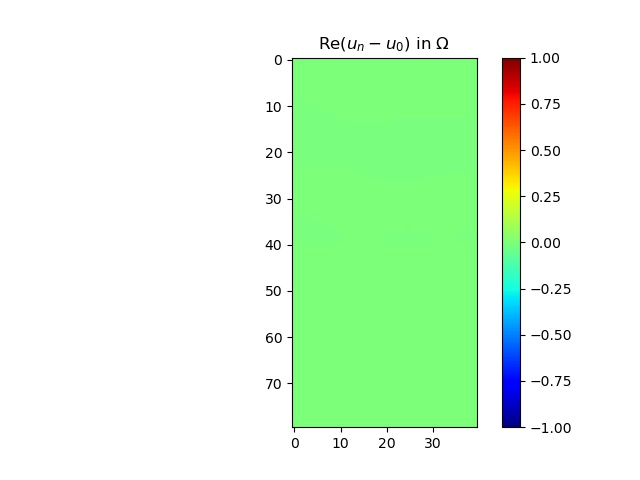
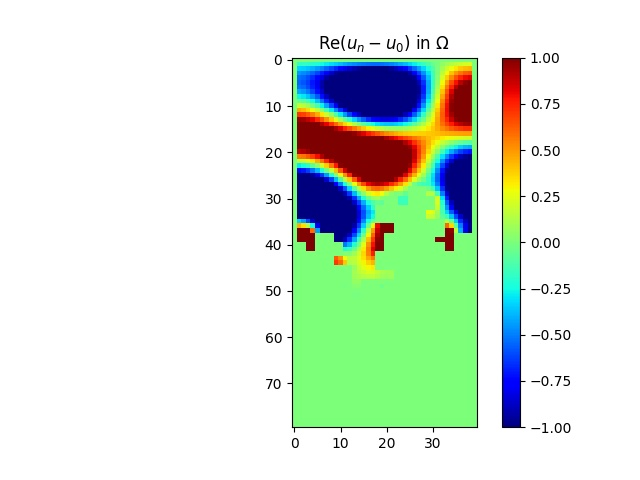
résultats concluants

diff --git a/demo_control_polycopie.py b/demo_control_polycopie.py
@@ -25,10 +25,10 @@ import alpha_compute
 def your_optimization_procedure(domain_omega, spacestep, wavenumber, f, f_dir, f_neu, f_rob,
                                 beta_pde, alpha_pde, alpha_dir, beta_neu, beta_rob, alpha_rob,
                                 Alpha, mu, chi, V_obj, mu1, V_0):
-
+    eps3 = 0.1
     eps1 = 1
     eps2 = 0.03
-    eps0 = 0.00001
+    eps0 = 0.0000001
     """This function return the optimized density.
 
     Parameter:
@@ -104,14 +104,14 @@ def your_optimization_procedure(domain_omega, spacestep, wavenumber, f, f_dir, f
             ene = your_compute_objective_function(
                 domain_omega, u, spacestep, mu1, V_0)
 
-            postprocessing._plot_perso_solution(u, chi*0)
+            postprocessing._plot_perso_solution(u, chi)
             print("Energy = ", ene)
 
             energy[k+1] = ene
 
             if ene < energy[k]:
                 # The step is increased if the energy decreased
-                mu = mu * 1.1
+                mu = mu * (1 + eps3)
             else:
                 # The step is decreased is the energy increased
                 mu = mu / 2
@@ -179,7 +179,7 @@ if __name__ == '__main__':
     # -- set parameters of the geometry
     N = 40  # number of points along x-axis
     M = 2 * N  # number of points along y-axis
-    level = 0  # level of the fractal : limited by N
+    level = 2 # level of the fractal : limited by N
     spacestep = 1.0 / N  # mesh size
 
     # -- set parameters of the partial differential equation
